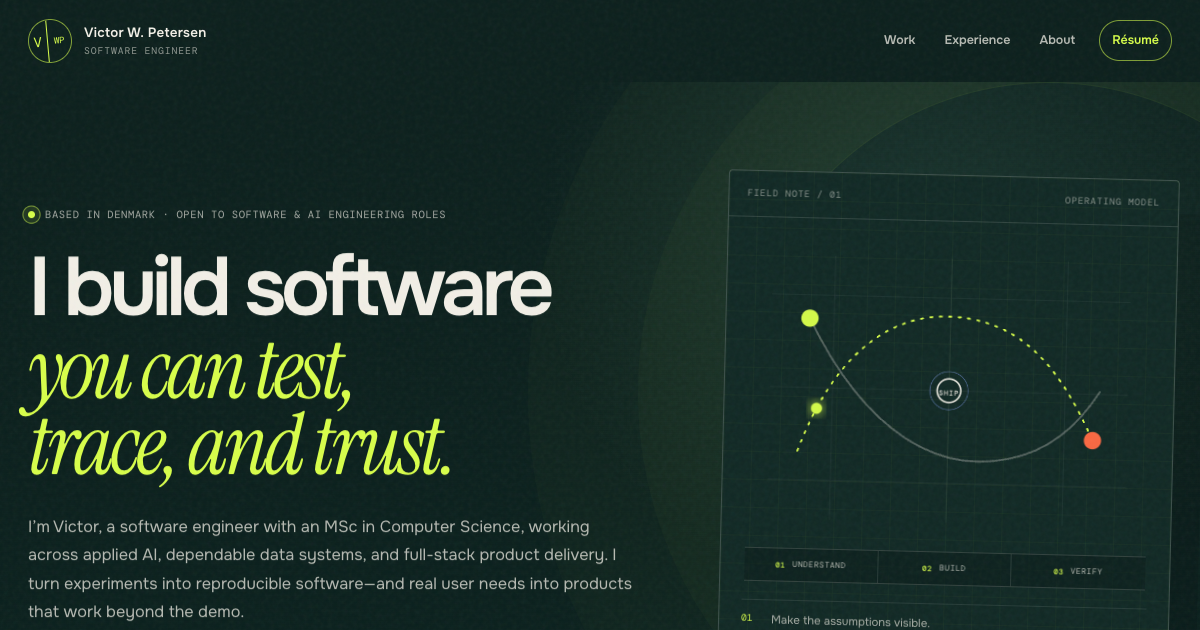
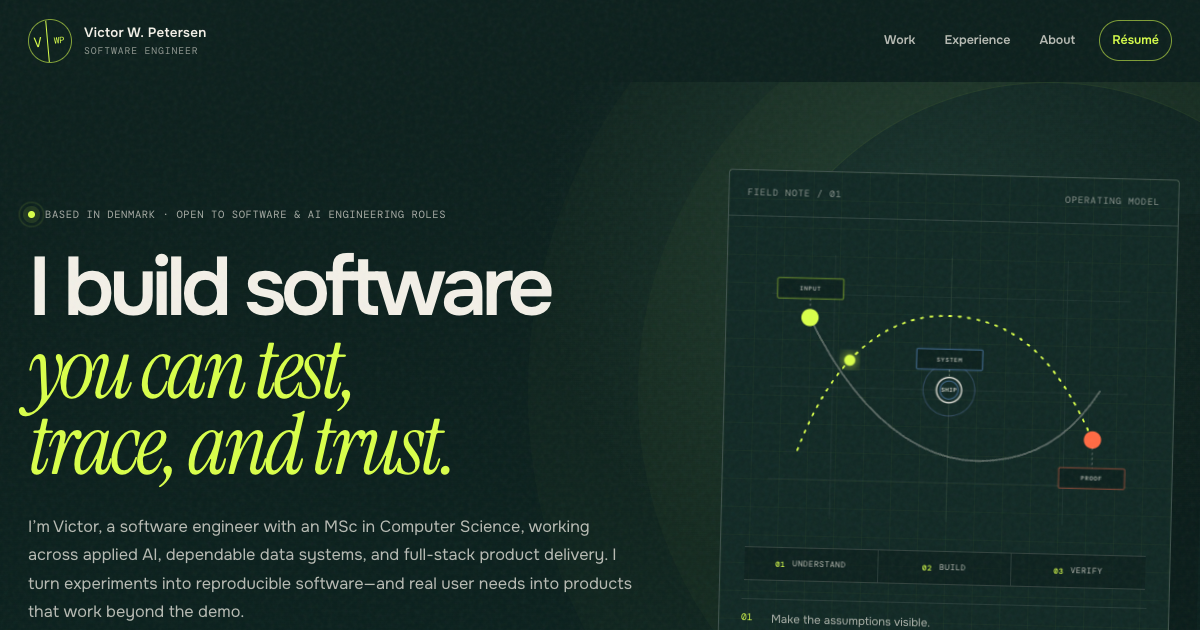
Restore graph labels and align ship marker

diff --git a/index.html b/index.html
@@ -190,14 +190,32 @@
                 <path class="orbit-path orbit-path--one" d="M79 291C121 171 191 111 276 116C364 121 412 180 454 269" />
                 <path class="orbit-path orbit-path--two" d="M91 122C153 244 238 310 329 298C388 291 429 260 462 207" />
                 <circle class="orbit-node orbit-node--signal" cx="91" cy="122" r="10" />
-                <circle class="orbit-node" cx="270" cy="210" r="15" />
                 <circle class="orbit-node orbit-node--warm" cx="454" cy="269" r="10" />
                 <circle class="orbit-pulse" cx="270" cy="210" r="27" />
+                <g class="orbit-hub" transform="translate(270 210)">
+                  <circle class="orbit-node orbit-node--hub" r="16" />
+                  <circle class="orbit-hub__ring" r="11.5" />
+                  <text class="orbit-center" x="0" y="0">SHIP</text>
+                </g>
+                <g class="orbit-label orbit-label--input">
+                  <path class="orbit-label__leader" d="M91 98V110" />
+                  <rect class="orbit-label__plate" x="49" y="72" width="84" height="26" rx="2" />
+                  <text class="orbit-label__text" x="91" y="85">INPUT</text>
+                </g>
+                <g class="orbit-label orbit-label--system">
+                  <path class="orbit-label__leader" d="M270 184V192" />
+                  <rect class="orbit-label__plate" x="228" y="158" width="84" height="26" rx="2" />
+                  <text class="orbit-label__text" x="270" y="171">SYSTEM</text>
+                </g>
+                <g class="orbit-label orbit-label--proof">
+                  <path class="orbit-label__leader" d="M454 279V305" />
+                  <rect class="orbit-label__plate" x="412" y="305" width="84" height="26" rx="2" />
+                  <text class="orbit-label__text" x="454" y="318">PROOF</text>
+                </g>
                 <g class="orbit-runner" filter="url(#softGlow)">
                   <circle r="7" />
                   <animateMotion dur="4.8s" repeatCount="1" fill="freeze" path="M79 291C121 171 191 111 276 116C364 121 412 180 454 269" />
                 </g>
-                <text class="orbit-center" x="270" y="216" text-anchor="middle">SHIP</text>
               </svg>
               <div class="system-orbit__stages" aria-hidden="true">
                 <span><b>01</b> Understand</span>

diff --git a/styles.css b/styles.css
@@ -577,6 +577,17 @@ p {
   stroke: var(--warm);
 }
 
+.orbit-node--hub {
+  fill: var(--ink-raised);
+  stroke-width: 1.7;
+}
+
+.orbit-hub__ring {
+  fill: none;
+  stroke: rgba(116, 176, 255, 0.72);
+  stroke-width: 0.9;
+}
+
 .orbit-pulse {
   fill: none;
   stroke: var(--blue);
@@ -610,8 +621,47 @@ p {
 
 .system-orbit .orbit-center {
   fill: var(--paper);
-  font-size: 9px;
+  font-size: 7.5px;
   font-weight: 500;
+  letter-spacing: 0.07em;
+  text-anchor: middle;
+  dominant-baseline: central;
+}
+
+.orbit-label__leader {
+  fill: none;
+  stroke: rgba(243, 240, 231, 0.42);
+  stroke-width: 1;
+  stroke-dasharray: 2 3;
+  vector-effect: non-scaling-stroke;
+}
+
+.orbit-label__plate {
+  fill: rgba(11, 31, 28, 0.92);
+  stroke: rgba(243, 240, 231, 0.22);
+  stroke-width: 1;
+  vector-effect: non-scaling-stroke;
+}
+
+.orbit-label--input .orbit-label__plate {
+  stroke: rgba(207, 255, 50, 0.52);
+}
+
+.orbit-label--system .orbit-label__plate {
+  stroke: rgba(116, 176, 255, 0.52);
+}
+
+.orbit-label--proof .orbit-label__plate {
+  stroke: rgba(255, 107, 74, 0.54);
+}
+
+.system-orbit .orbit-label__text {
+  fill: rgba(243, 240, 231, 0.82);
+  font-size: 7.5px;
+  font-weight: 500;
+  letter-spacing: 0.14em;
+  text-anchor: middle;
+  dominant-baseline: central;
 }
 
 .system-orbit__stages {
